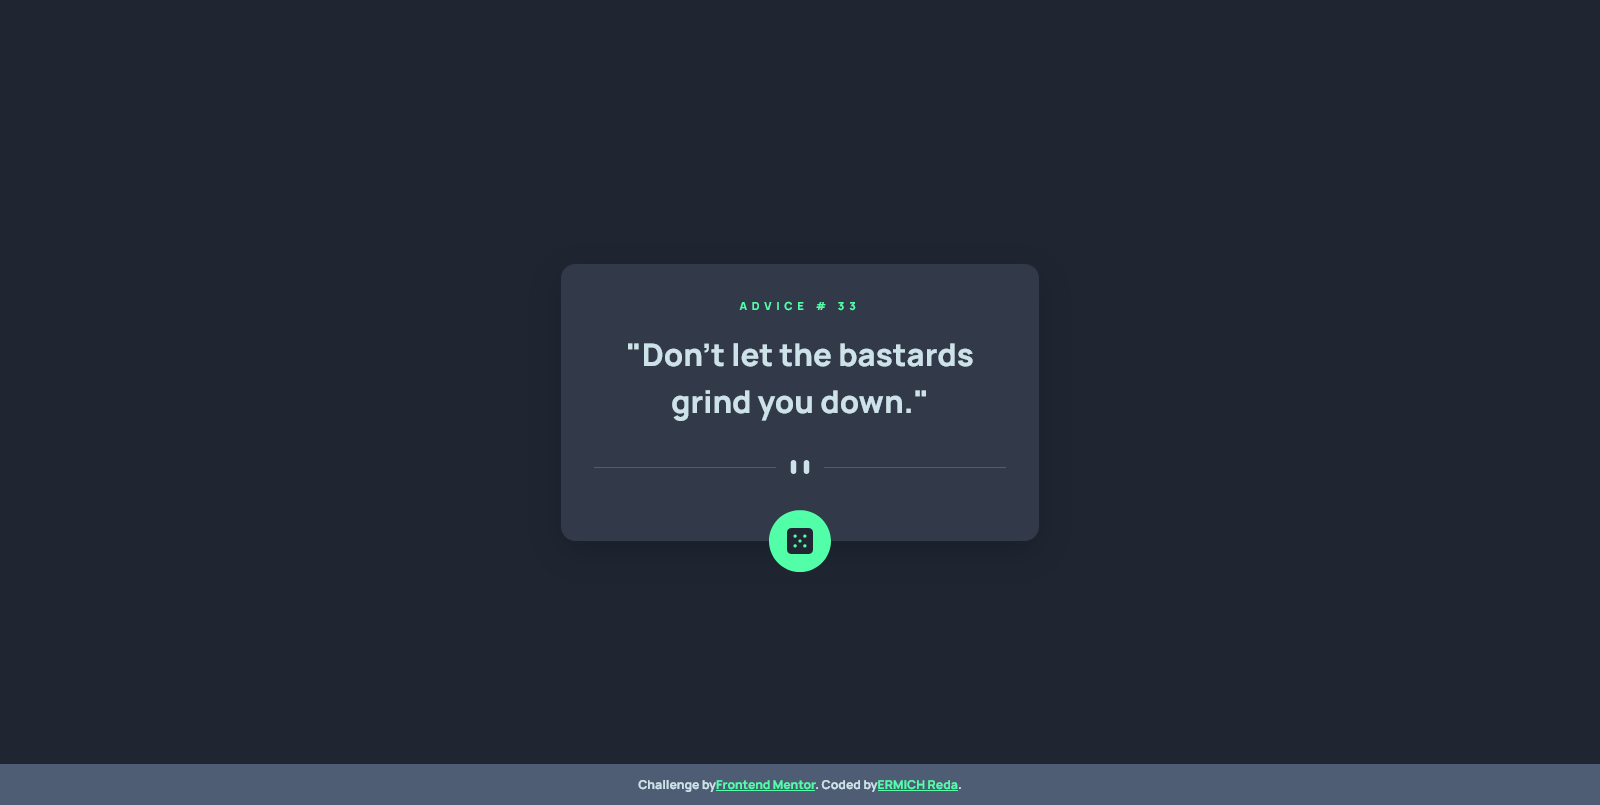
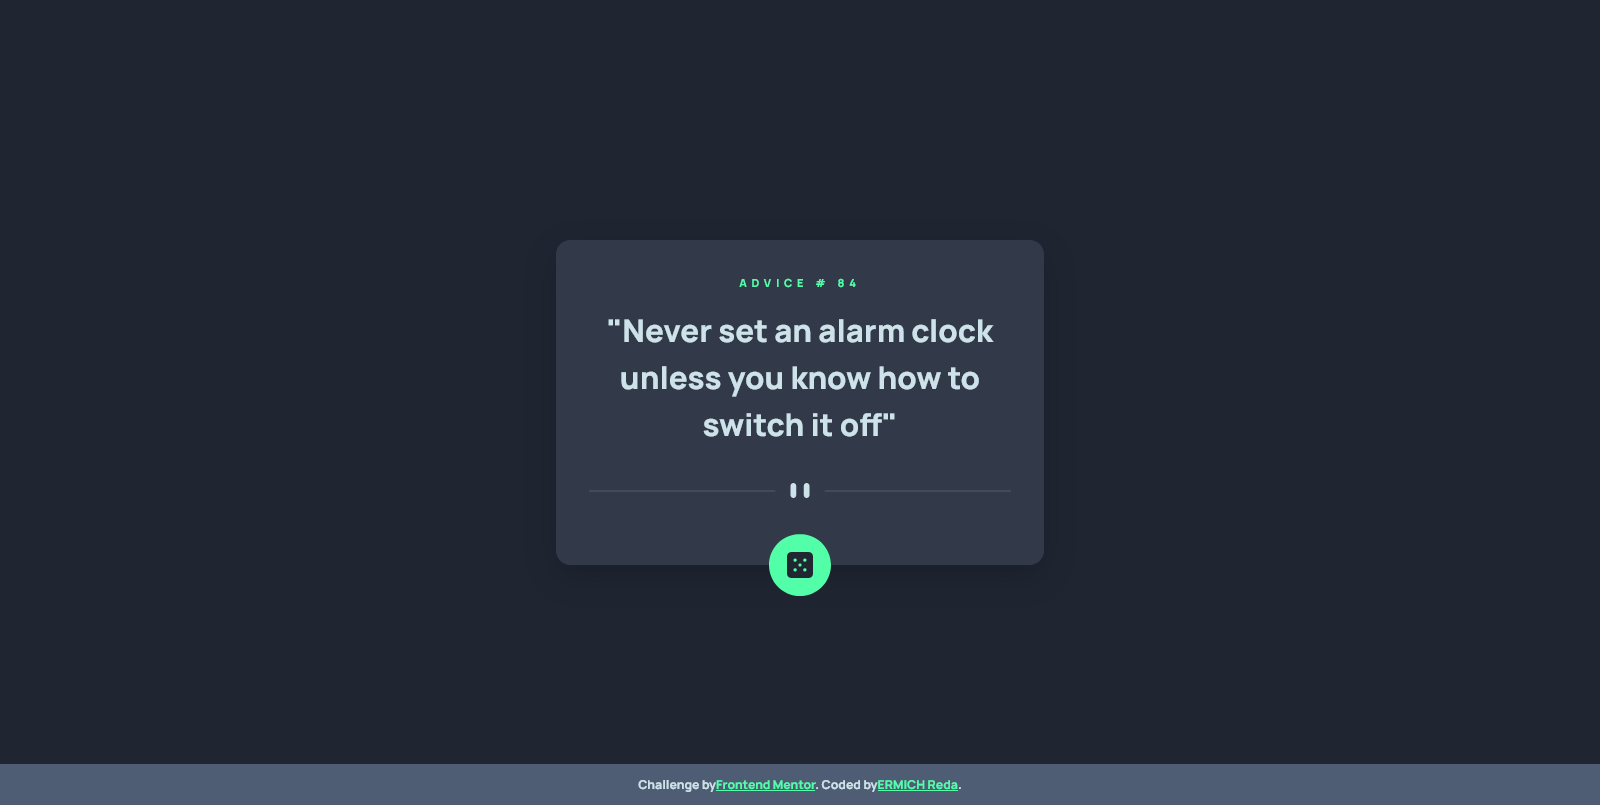
some changes

diff --git a/dist/index.html b/dist/index.html
@@ -1,1 +1,1 @@
-<!DOCTYPE html><head><meta charset="UTF-8"><meta name="viewport" content="width=device-width, initial-scale=1.0"><link rel="icon" type="image/png" sizes="32x32" href="./images/favicon-32x32.png"><title>REST API | Advice generator app</title><!-- google fonts--><link href="https://fonts.googleapis.com/css2?family=Manrope:wght@800&amp;display=swap" rel="stylesheet"><!-- CSS only--><link href="https://cdn.jsdelivr.net/npm/bootstrap@5.2.0/dist/css/bootstrap.min.css" rel="stylesheet" integrity="sha384-gH2yIJqKdNHPEq0n4Mqa/HGKIhSkIHeL5AyhkYV8i59U5AR6csBvApHHNl/vI1Bx" crossorigin="anonymous"><!-- custom style--><link rel="stylesheet" href="css/style.css"></head><body class="d-flex justify-content-center align-items-center"><section class="position-relative p-5 shadow-lg" id="content"><!-- Advice ID goes here--><div class="text-center mb-4" id="header"></div><!-- Advice text goes here--><div class="text-center mb-5" id="quote"></div><picture class="my-5"><source srcset="images/pattern-divider-mobile.svg" media="(max-width: 375px)"><img src="images/pattern-divider-desktop.svg" alt="Flowers" style="width: 100%"></picture><div class="position-absolute top-100 start-50 translate-middle" id="dice"><img src="images/icon-dice.svg" alt=""></div></section><div class="attribution position-absolute bottom-0 start-50 translate-middle-x vw-100 p-3">Challenge by<a href="https://www.frontendmentor.io?ref=challenge" target="_blank">Frontend Mentor</a>. Coded by<a href="https://www.linkedin.com/in/ermich-reda/" target="_blank">ERMICH Reda</a>.</div><!-- JavaScript Bundle with Popper--><script src="https://cdn.jsdelivr.net/npm/bootstrap@5.2.0/dist/js/bootstrap.bundle.min.js" integrity="sha384-A3rJD856KowSb7dwlZdYEkO39Gagi7vIsF0jrRAoQmDKKtQBHUuLZ9AsSv4jD4Xa" crossorigin="anonymous"></script><!-- custom script--><script src="js/script.js"></script></body>
+<!DOCTYPE html><head><meta charset="UTF-8"><meta name="viewport" content="width=device-width, initial-scale=1.0"><link rel="icon" type="image/png" sizes="32x32" href="./images/favicon-32x32.png"><title>REST API | Advice generator app</title><!-- google fonts--><link href="https://fonts.googleapis.com/css2?family=Manrope:wght@800&amp;display=swap" rel="stylesheet"><!-- CSS only--><link href="https://cdn.jsdelivr.net/npm/bootstrap@5.2.0/dist/css/bootstrap.min.css" rel="stylesheet" integrity="sha384-gH2yIJqKdNHPEq0n4Mqa/HGKIhSkIHeL5AyhkYV8i59U5AR6csBvApHHNl/vI1Bx" crossorigin="anonymous"><!-- custom style--><link rel="stylesheet" href="css/style.css"></head><body class="vh-100 d-flex align-items-center"><div class="container"><div class="row justify-content-center align-items-center"><div class="col-11 col-sm-8 col-md-6 col-lg-4 position-relative shadow-lg p-5" id="content"><!-- Advice ID goes here--><div class="text-center mb-4" id="header"></div><!-- Advice text goes here--><div class="text-center mb-5" id="quote"></div><picture class="my-5"><source srcset="images/pattern-divider-mobile.svg" media="(max-width: 375px)"><img src="images/pattern-divider-desktop.svg" alt="Flowers" style="width: 100%"></picture><div class="position-absolute top-100 start-50 translate-middle" id="dice"><img src="images/icon-dice.svg" alt=""></div></div></div></div><div class="attribution position-absolute bottom-0 start-50 translate-middle-x vw-100 p-3">Challenge by<a href="https://www.frontendmentor.io?ref=challenge" target="_blank">Frontend Mentor</a>. Coded by<a href="https://www.linkedin.com/in/ermich-reda/" target="_blank">ERMICH Reda</a>.</div><!-- JavaScript Bundle with Popper--><script src="https://cdn.jsdelivr.net/npm/bootstrap@5.2.0/dist/js/bootstrap.bundle.min.js" integrity="sha384-A3rJD856KowSb7dwlZdYEkO39Gagi7vIsF0jrRAoQmDKKtQBHUuLZ9AsSv4jD4Xa" crossorigin="anonymous"></script><!-- custom script--><script src="js/script.js"></script></body>

diff --git a/dist/css/style.css b/dist/css/style.css
@@ -18,7 +18,6 @@ body {
 
 #content {
   background-color: var(--dark-grayish-blue);
-  width: 430px;
   border-radius: 13px;
   padding-bottom: 6rem !important;
 }
@@ -49,7 +48,6 @@ body {
 
 @media screen and (max-width: 375px) {
   #content {
-    width: 320px;
     border-radius: 10px;
   }
 }

diff --git a/src/scss/style.scss b/src/scss/style.scss
@@ -18,7 +18,6 @@ body {
 
 #content {
 	background-color: var(--dark-grayish-blue);
-	width: 430px;
 	border-radius: 13px;
 	padding-bottom: 6rem !important;
 }
@@ -50,7 +49,6 @@ body {
 
 @media screen and (max-width: 375px) {
 	#content {
-		width: 320px;
 		border-radius: 10px;
 	}
 }
